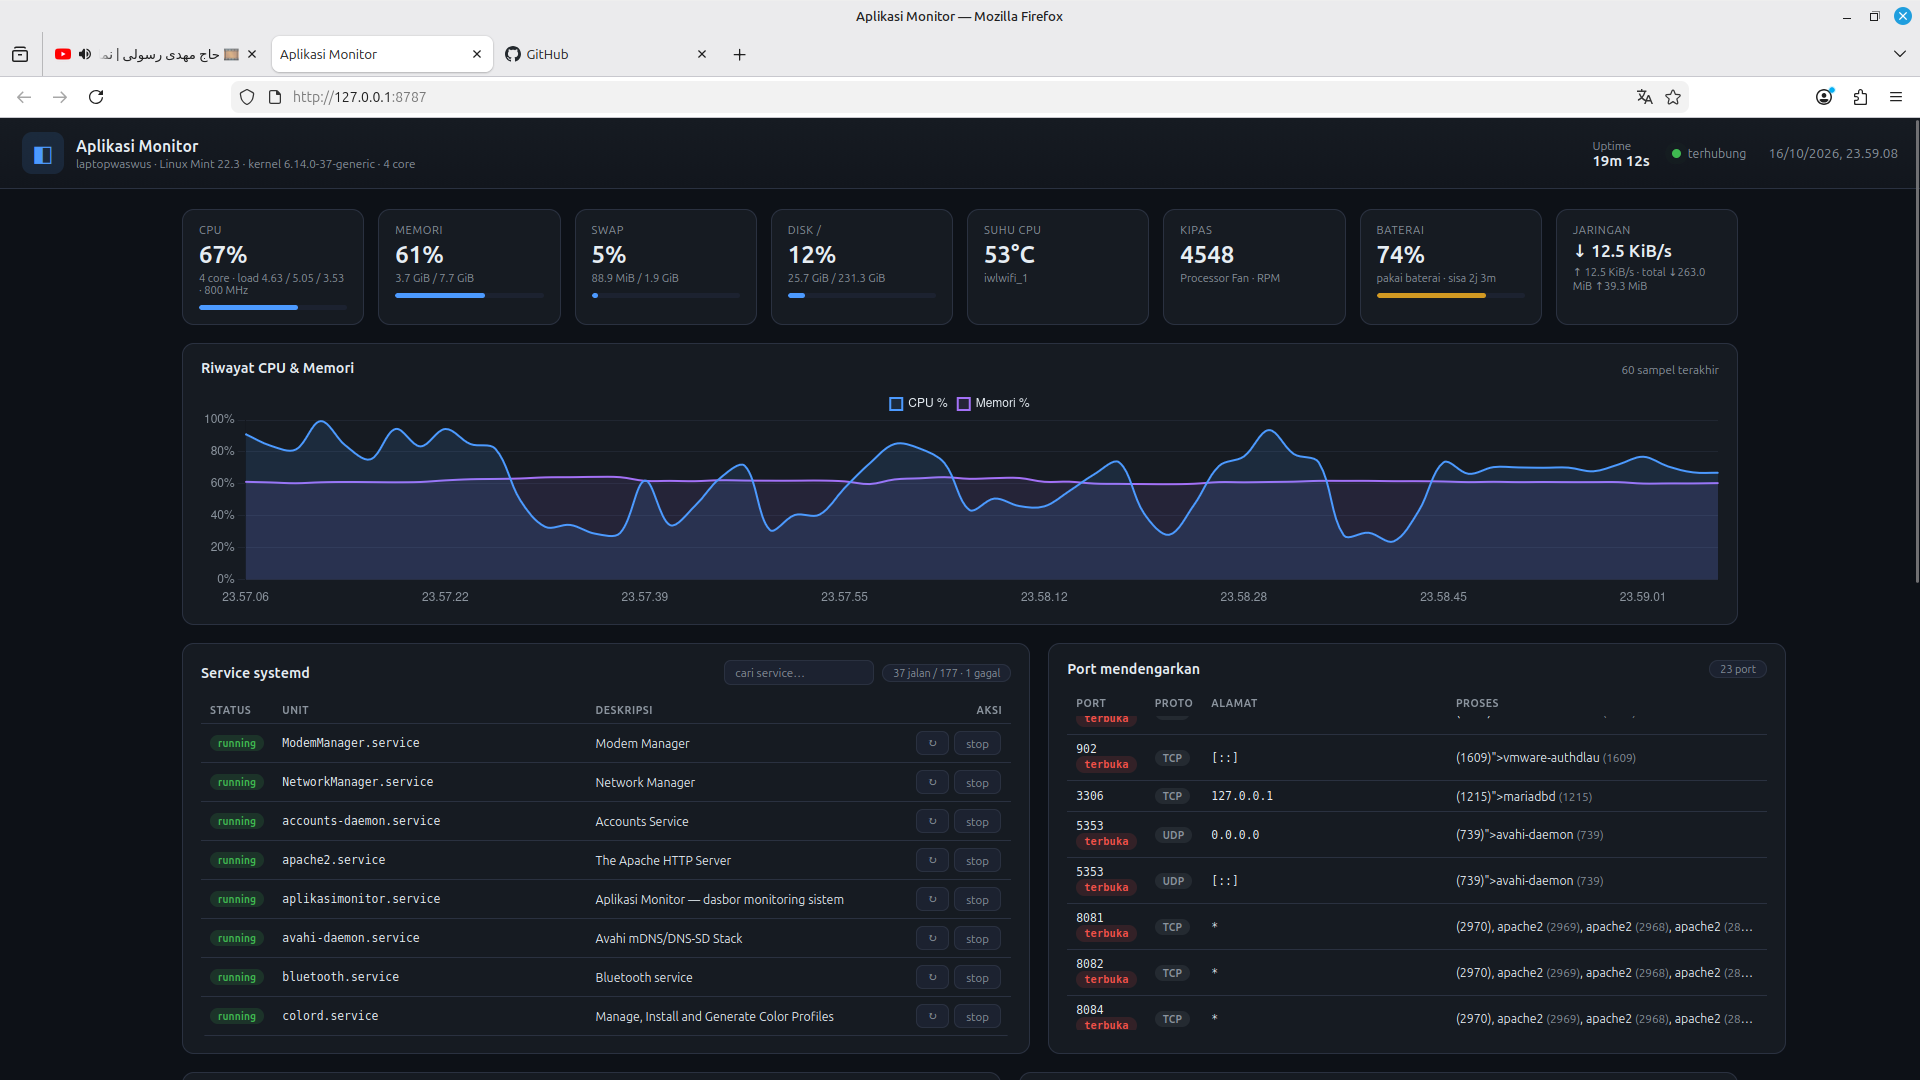
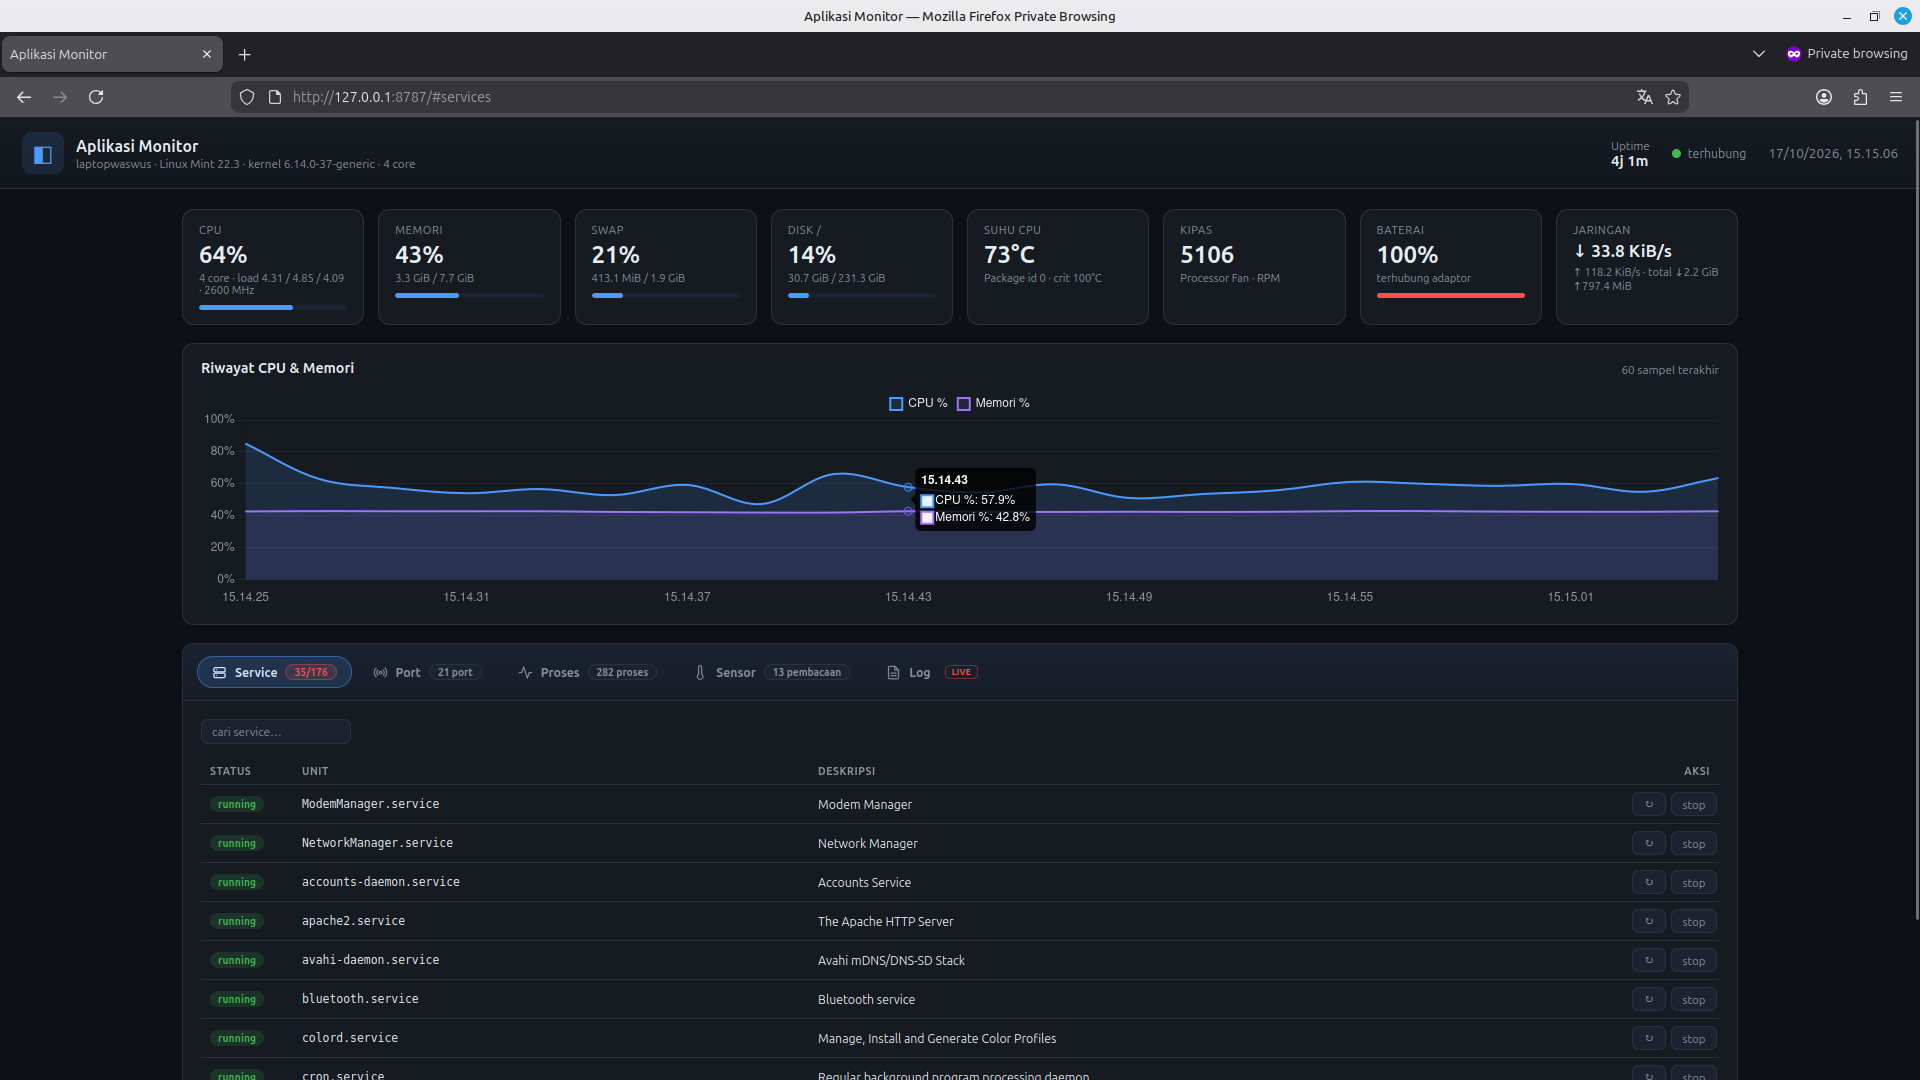
feat(ui): panel data bertab + lebar kolom tabel yang konsisten
- Gabung Service, Port, Proses, Sensor, dan Log menjadi satu card bertab
  (stat + grafik tetap di atas). Tab bergaya pil ala Bootstrap/Tailwind
  dengan ikon, dukungan keyboard, dan deep-link lewat hash URL.
- Perbaiki layout tabel agar tidak melebar/bergeser saat data refresh:
  table-layout fixed + lebar kolom eksplisit per tabel, dan minmax(0,1fr)
  pada grid agar konten panjang di-scroll di dalam card.
- Ringkas pill jumlah service jadi running/total (rincian di tooltip,
  merah bila ada yang gagal).
- Perbarui screenshot dasbor di README.

diff --git a/aplikasimonitor/static/style.css b/aplikasimonitor/static/style.css
@@ -74,9 +74,10 @@ main { padding: 20px 22px 60px; display: flex; flex-direction: column; gap: 18px
   border: 1px solid var(--border);
   border-radius: var(--radius);
   padding: 16px 18px;
+  min-width: 0;            /* cegah card melebar mengikuti konten tabel */
 }
 .card-head { display: flex; align-items: center; justify-content: space-between; gap: 12px; margin-bottom: 12px; flex-wrap: wrap; }
-.head-tools { display: flex; align-items: center; gap: 8px; flex-wrap: wrap; }
+.head-tools, .panel-tools { display: flex; align-items: center; gap: 8px; flex-wrap: wrap; }
 
 /* ---------- Stat cards ---------- */
 .stats { display: grid; grid-template-columns: repeat(auto-fit, minmax(150px, 1fr)); gap: 14px; }
@@ -93,14 +94,53 @@ main { padding: 20px 22px 60px; display: flex; flex-direction: column; gap: 18px
 /* ---------- Chart ---------- */
 .chart-card .chart-wrap { height: 220px; position: relative; }
 
-/* ---------- Grid 2 kolom ---------- */
-.grid-2 { display: grid; grid-template-columns: 1fr 1fr; gap: 18px; }
-@media (max-width: 1050px) { .grid-2 { grid-template-columns: 1fr; } }
+/* ---------- Tab panel ---------- */
+.tabs-card { padding: 0; overflow: hidden; }
+.tabbar {
+  display: flex; align-items: center; gap: 6px; flex-wrap: wrap;
+  padding: 12px 14px;
+  background: linear-gradient(180deg, #1a2130, #171d27);
+  border-bottom: 1px solid var(--border);
+  border-radius: var(--radius) var(--radius) 0 0;
+}
+.tab {
+  display: inline-flex; align-items: center; gap: 8px; white-space: nowrap;
+  appearance: none; font: inherit; font-size: .82rem; font-weight: 600;
+  color: var(--muted); background: transparent;
+  border: 1px solid transparent; border-radius: 999px;
+  padding: 7px 14px; cursor: pointer;
+  transition: color .15s ease, background .15s ease, border-color .15s ease;
+}
+.tab-ico {
+  width: 15px; height: 15px; flex: 0 0 auto; opacity: .9;
+  fill: none; stroke: currentColor; stroke-width: 2;
+  stroke-linecap: round; stroke-linejoin: round;
+}
+.tab:hover { color: var(--text); background: rgba(255,255,255,.05); }
+.tab:focus-visible { outline: 2px solid var(--accent); outline-offset: 2px; }
+.tab[aria-selected="true"] {
+  color: #d3e6ff;
+  background: rgba(76,154,255,.16);
+  border-color: rgba(76,154,255,.45);
+}
+.tab[aria-selected="true"] .tab-ico { opacity: 1; }
+.tab .pill { padding: 1px 8px; font-size: .68rem; }
+.tab[aria-selected="true"] .pill {
+  color: var(--accent); background: rgba(76,154,255,.14);
+  border-color: rgba(76,154,255,.4);
+}
+.tab .pill.bad {
+  color: var(--red); background: rgba(248,81,73,.14);
+  border-color: rgba(248,81,73,.4);
+}
+.tabpanel { padding: 18px; }
+.tabpanel[hidden] { display: none; }
+.panel-tools { margin-bottom: 14px; }
 
 /* ---------- Tabel ---------- */
-.table-scroll { max-height: 340px; overflow: auto; border-radius: 8px; }
-.table-scroll.tall { max-height: 420px; }
-table { width: 100%; border-collapse: collapse; font-size: .82rem; }
+.table-scroll { max-height: 420px; overflow: auto; border-radius: 8px; }
+.table-scroll.tall { max-height: 520px; }
+table { width: 100%; border-collapse: collapse; font-size: .82rem; table-layout: fixed; }
 th, td { text-align: left; padding: 7px 9px; border-bottom: 1px solid var(--border); vertical-align: middle; }
 th {
   position: sticky; top: 0; background: var(--bg-soft); z-index: 2;
@@ -109,8 +149,37 @@ th {
 tbody tr:hover { background: rgba(76,154,255,.06); }
 td.num, th.num { text-align: right; font-variant-numeric: tabular-nums; }
 .mono { font-family: "JetBrains Mono", ui-monospace, "SF Mono", Menlo, monospace; font-size: .76rem; }
-.truncate { max-width: 320px; overflow: hidden; text-overflow: ellipsis; white-space: nowrap; }
+.truncate { overflow: hidden; text-overflow: ellipsis; white-space: nowrap; }
 .empty { padding: 22px; text-align: center; color: var(--muted); font-size: .85rem; }
+
+/* Lebar kolom tetap (fixed) supaya tabel tidak bergeser saat data refresh.
+   Kolom tanpa lebar eksplisit mengisi sisa ruang secara merata. */
+.tbl { min-width: 480px; }
+
+/* Service: Status | Unit | Deskripsi | Aksi */
+.tbl-services th:nth-child(1), .tbl-services td:nth-child(1) { width: 92px; }
+.tbl-services th:nth-child(2), .tbl-services td:nth-child(2) { width: 34%; }
+.tbl-services th:nth-child(4), .tbl-services td:nth-child(4) { width: 96px; }
+
+/* Port: Port | Proto | Alamat | Proses */
+.tbl-ports th:nth-child(1), .tbl-ports td:nth-child(1) { width: 116px; }
+.tbl-ports th:nth-child(2), .tbl-ports td:nth-child(2) { width: 78px; }
+.tbl-ports th:nth-child(3), .tbl-ports td:nth-child(3) { width: 34%; }
+
+/* Proses: PID | Nama | User | CPU% | RAM% | RSS | Perintah */
+.tbl-processes { min-width: 640px; }
+.tbl-processes th:nth-child(1), .tbl-processes td:nth-child(1) { width: 68px; }
+.tbl-processes th:nth-child(2), .tbl-processes td:nth-child(2) { width: 16%; }
+.tbl-processes th:nth-child(3), .tbl-processes td:nth-child(3) { width: 12%; }
+.tbl-processes th:nth-child(4), .tbl-processes td:nth-child(4) { width: 62px; }
+.tbl-processes th:nth-child(5), .tbl-processes td:nth-child(5) { width: 62px; }
+.tbl-processes th:nth-child(6), .tbl-processes td:nth-child(6) { width: 80px; }
+
+/* Sensor: Sensor | Label | Nilai | Maks | Kritis */
+.tbl-sensors th:nth-child(1), .tbl-sensors td:nth-child(1) { width: 26%; }
+.tbl-sensors th:nth-child(3), .tbl-sensors td:nth-child(3) { width: 90px; }
+.tbl-sensors th:nth-child(4), .tbl-sensors td:nth-child(4) { width: 80px; }
+.tbl-sensors th:nth-child(5), .tbl-sensors td:nth-child(5) { width: 80px; }
 
 /* ---------- Badges & chip ---------- */
 .badge { display: inline-block; padding: 2px 8px; border-radius: 999px; font-size: .68rem; font-weight: 600; letter-spacing: .02em; }
@@ -145,7 +214,7 @@ input[type="search"] { width: 150px; }
 /* ---------- Log ---------- */
 .live-badge { font-size: .6rem; color: var(--red); border: 1px solid rgba(248,81,73,.4); border-radius: 5px; padding: 1px 6px; vertical-align: middle; margin-left: 6px; }
 .logs {
-  height: 320px; overflow: auto; background: #0a0d12; border: 1px solid var(--border);
+  height: 420px; overflow: auto; background: #0a0d12; border: 1px solid var(--border);
   border-radius: 8px; padding: 8px 10px; font-family: "JetBrains Mono", ui-monospace, Menlo, monospace;
   font-size: .74rem; line-height: 1.5;
 }

diff --git a/aplikasimonitor/static/index.html b/aplikasimonitor/static/index.html
@@ -90,64 +90,69 @@
     <div class="chart-wrap"><canvas id="history-chart"></canvas></div>
   </section>
 
-  <!-- Service & Port -->
-  <section class="grid-2">
-    <article class="card">
-      <div class="card-head">
-        <h2>Service systemd</h2>
-        <div class="head-tools">
-          <input type="search" id="service-search" placeholder="cari service…">
-          <span class="pill" id="service-count">—</span>
-        </div>
+  <!-- Panel data bertab -->
+  <section class="card tabs-card">
+    <div class="tabbar" role="tablist" aria-label="Panel data sistem">
+      <button class="tab" role="tab" id="tab-services" aria-controls="panel-services"
+              aria-selected="true" data-tab="services">
+        <svg class="tab-ico" viewBox="0 0 24 24" aria-hidden="true"><rect x="3" y="4" width="18" height="7" rx="2"/><rect x="3" y="13" width="18" height="7" rx="2"/><line x1="7" y1="7.5" x2="7.01" y2="7.5"/><line x1="7" y1="16.5" x2="7.01" y2="16.5"/></svg>
+        <span>Service</span> <span class="pill" id="service-count">—</span>
+      </button>
+      <button class="tab" role="tab" id="tab-ports" aria-controls="panel-ports"
+              aria-selected="false" data-tab="ports" tabindex="-1">
+        <svg class="tab-ico" viewBox="0 0 24 24" aria-hidden="true"><circle cx="12" cy="12" r="2"/><path d="M16.24 7.76a6 6 0 0 1 0 8.49m-8.48-.01a6 6 0 0 1 0-8.49"/><path d="M19.07 4.93a10 10 0 0 1 0 14.14m-14.14 0a10 10 0 0 1 0-14.14"/></svg>
+        <span>Port</span> <span class="pill" id="ports-count">—</span>
+      </button>
+      <button class="tab" role="tab" id="tab-processes" aria-controls="panel-processes"
+              aria-selected="false" data-tab="processes" tabindex="-1">
+        <svg class="tab-ico" viewBox="0 0 24 24" aria-hidden="true"><polyline points="22 12 18 12 15 21 9 3 6 12 2 12"/></svg>
+        <span>Proses</span> <span class="pill" id="proc-count">—</span>
+      </button>
+      <button class="tab" role="tab" id="tab-sensors" aria-controls="panel-sensors"
+              aria-selected="false" data-tab="sensors" tabindex="-1">
+        <svg class="tab-ico" viewBox="0 0 24 24" aria-hidden="true"><path d="M14 14.76V3.5a2.5 2.5 0 0 0-5 0v11.26a4.5 4.5 0 1 0 5 0z"/></svg>
+        <span>Sensor</span> <span class="pill" id="sensor-count">—</span>
+      </button>
+      <button class="tab" role="tab" id="tab-logs" aria-controls="panel-logs"
+              aria-selected="false" data-tab="logs" tabindex="-1">
+        <svg class="tab-ico" viewBox="0 0 24 24" aria-hidden="true"><path d="M14 2H6a2 2 0 0 0-2 2v16a2 2 0 0 0 2 2h12a2 2 0 0 0 2-2V8z"/><polyline points="14 2 14 8 20 8"/><line x1="16" y1="13" x2="8" y2="13"/><line x1="16" y1="17" x2="8" y2="17"/></svg>
+        <span>Log</span> <span class="live-badge">LIVE</span>
+      </button>
+    </div>
+
+    <div class="tabpanel" id="panel-services" role="tabpanel" aria-labelledby="tab-services" data-tab="services">
+      <div class="panel-tools">
+        <input type="search" id="service-search" placeholder="cari service…">
       </div>
       <div class="table-scroll" id="services-body">
         <div class="empty">memuat…</div>
       </div>
-    </article>
+    </div>
 
-    <article class="card">
-      <div class="card-head">
-        <h2>Port mendengarkan</h2>
-        <span class="pill" id="ports-count">—</span>
-      </div>
+    <div class="tabpanel" id="panel-ports" role="tabpanel" aria-labelledby="tab-ports" data-tab="ports" hidden>
       <div class="table-scroll" id="ports-body">
         <div class="empty">memuat…</div>
       </div>
-    </article>
-  </section>
+    </div>
 
-  <!-- Proses & Sensor -->
-  <section class="grid-2">
-    <article class="card">
-      <div class="card-head">
-        <h2>Proses teratas</h2>
-        <div class="head-tools">
-          <button class="chip" data-sort="cpu" aria-pressed="true">CPU</button>
-          <button class="chip" data-sort="mem" aria-pressed="false">RAM</button>
-          <span class="pill" id="proc-count">—</span>
-        </div>
+    <div class="tabpanel" id="panel-processes" role="tabpanel" aria-labelledby="tab-processes" data-tab="processes" hidden>
+      <div class="panel-tools">
+        <button class="chip" data-sort="cpu" aria-pressed="true">CPU</button>
+        <button class="chip" data-sort="mem" aria-pressed="false">RAM</button>
       </div>
       <div class="table-scroll tall" id="processes-body">
         <div class="empty">memuat…</div>
       </div>
-    </article>
+    </div>
 
-    <article class="card">
-      <div class="card-head">
-        <h2>Sensor (lm-sensors)</h2>
-        <span class="pill" id="sensor-count">—</span>
-      </div>
+    <div class="tabpanel" id="panel-sensors" role="tabpanel" aria-labelledby="tab-sensors" data-tab="sensors" hidden>
       <div class="table-scroll tall" id="sensors-body">
         <div class="empty">memuat…</div>
       </div>
-    </article>
-  </section>
+    </div>
 
-  <!-- Log -->
-  <section class="card">
-    <div class="card-head">
-      <h2>Log journald <span class="live-badge">LIVE</span></h2>
-      <div class="head-tools">
+    <div class="tabpanel" id="panel-logs" role="tabpanel" aria-labelledby="tab-logs" data-tab="logs" hidden>
+      <div class="panel-tools">
         <select id="log-unit"><option value="">semua unit</option></select>
         <select id="log-level">
           <option value="">semua level</option>
@@ -160,8 +165,8 @@
         <label class="switch"><input type="checkbox" id="log-autoscroll" checked> auto-scroll</label>
         <button class="chip" id="log-clear">bersihkan</button>
       </div>
+      <div class="logs" id="log-body"><div class="empty">menunggu log…</div></div>
     </div>
-    <div class="logs" id="log-body"><div class="empty">menunggu log…</div></div>
   </section>
 
 </main>

diff --git a/aplikasimonitor/static/app.js b/aplikasimonitor/static/app.js
@@ -253,8 +253,11 @@ function serviceBadge(svc) {
 
 function renderServices(data) {
   state.services = data.services || [];
-  $("service-count").textContent = `${data.running} jalan / ${data.total}`;
-  if (data.failed) $("service-count").textContent += ` · ${data.failed} gagal`;
+  const pill = $("service-count");
+  pill.textContent = `${data.running}/${data.total}`;
+  pill.title = `${data.running} jalan, ${data.total} total` +
+    (data.failed ? `, ${data.failed} gagal` : "");
+  pill.classList.toggle("bad", Boolean(data.failed));
   filterServices();
   populateLogUnits();
 }
@@ -268,7 +271,7 @@ function filterServices() {
   const body = $("services-body");
   if (!rows.length) { body.innerHTML = `<div class="empty">tidak ada service cocok</div>`; return; }
 
-  body.innerHTML = `<table><thead><tr><th>Status</th><th>Unit</th><th>Deskripsi</th><th class="num">Aksi</th></tr></thead><tbody>` +
+  body.innerHTML = `<table class="tbl tbl-services"><thead><tr><th>Status</th><th>Unit</th><th>Deskripsi</th><th class="num">Aksi</th></tr></thead><tbody>` +
     rows.map((s) => {
       const isActive = s.active === "active";
       const toggle = isActive
@@ -330,7 +333,7 @@ async function loadPorts() {
     const ports = data.ports || [];
     $("ports-count").textContent = `${ports.length} port`;
     if (!ports.length) { body.innerHTML = `<div class="empty">tidak ada port mendengarkan</div>`; return; }
-    body.innerHTML = `<table><thead><tr><th>Port</th><th>Proto</th><th>Alamat</th><th>Proses</th></tr></thead><tbody>` +
+    body.innerHTML = `<table class="tbl tbl-ports"><thead><tr><th>Port</th><th>Proto</th><th>Alamat</th><th>Proses</th></tr></thead><tbody>` +
       ports.map((p) => {
         const procs = (p.processes || []).map((x) => `${esc(x.name)} <span class="muted">(${x.pid})</span>`).join(", ") || "—";
         const exposed = p.exposed ? ` <span class="badge exposed">terbuka</span>` : "";
@@ -354,7 +357,7 @@ async function loadProcesses() {
   try {
     const data = await getJSON(`/api/processes?sort=${state.processSort}&limit=60`);
     $("proc-count").textContent = `${data.total} proses`;
-    body.innerHTML = `<table><thead><tr>
+    body.innerHTML = `<table class="tbl tbl-processes"><thead><tr>
         <th class="num">PID</th><th>Nama</th><th>User</th>
         <th class="num">CPU%</th><th class="num">RAM%</th><th class="num">RSS</th><th>Perintah</th>
       </tr></thead><tbody>` +
@@ -382,7 +385,7 @@ async function loadSensors() {
     if (!data.available) { body.innerHTML = `<div class="empty">${esc(data.error || "sensor tidak tersedia")}</div>`; return; }
     const readings = data.readings || [];
     $("sensor-count").textContent = `${readings.length} pembacaan`;
-    body.innerHTML = `<table><thead><tr><th>Sensor</th><th>Label</th><th class="num">Nilai</th><th class="num">Maks</th><th class="num">Kritis</th></tr></thead><tbody>` +
+    body.innerHTML = `<table class="tbl tbl-sensors"><thead><tr><th>Sensor</th><th>Label</th><th class="num">Nilai</th><th class="num">Maks</th><th class="num">Kritis</th></tr></thead><tbody>` +
       readings.map((s) => {
         const hot = s.kind === "temp" && s.crit && s.value >= s.crit * 0.9;
         const value = `${s.value.toFixed(1)}${s.unit ? " " + s.unit : ""}`;
@@ -450,6 +453,55 @@ function startLogs() {
 }
 
 // ---------------------------------------------------------------------------
+// Tab panel
+// ---------------------------------------------------------------------------
+const TAB_NAMES = ["services", "ports", "processes", "sensors", "logs"];
+
+function activeTabName() {
+  const sel = document.querySelector('.tab[aria-selected="true"]');
+  return sel ? sel.dataset.tab : "services";
+}
+
+function activateTab(name) {
+  if (!TAB_NAMES.includes(name)) name = "services";
+  for (const t of TAB_NAMES) {
+    const on = t === name;
+    const tab = $("tab-" + t);
+    const panel = $("panel-" + t);
+    tab.setAttribute("aria-selected", String(on));
+    tab.tabIndex = on ? 0 : -1;
+    panel.hidden = !on;
+  }
+  // Log yang tersembunyi tidak bisa auto-scroll; rapikan saat tab dibuka.
+  if (name === "logs" && $("log-autoscroll").checked) {
+    const body = $("log-body");
+    body.scrollTop = body.scrollHeight;
+  }
+  if (location.hash !== "#" + name) history.replaceState(null, "", "#" + name);
+}
+
+function bindTabs() {
+  const bar = document.querySelector(".tabbar");
+  bar.addEventListener("click", (e) => {
+    const tab = e.target.closest(".tab");
+    if (tab) activateTab(tab.dataset.tab);
+  });
+  bar.addEventListener("keydown", (e) => {
+    if (!["ArrowLeft", "ArrowRight", "Home", "End"].includes(e.key)) return;
+    e.preventDefault();
+    const cur = TAB_NAMES.indexOf(activeTabName());
+    let next = cur;
+    if (e.key === "ArrowLeft") next = (cur - 1 + TAB_NAMES.length) % TAB_NAMES.length;
+    else if (e.key === "ArrowRight") next = (cur + 1) % TAB_NAMES.length;
+    else if (e.key === "Home") next = 0;
+    else if (e.key === "End") next = TAB_NAMES.length - 1;
+    activateTab(TAB_NAMES[next]);
+    $("tab-" + TAB_NAMES[next]).focus();
+  });
+  window.addEventListener("hashchange", () => activateTab(location.hash.slice(1)));
+}
+
+// ---------------------------------------------------------------------------
 // Wiring
 // ---------------------------------------------------------------------------
 function bindEvents() {
@@ -489,6 +541,8 @@ function tickClock() {
 function init() {
   initChart();
   bindEvents();
+  bindTabs();
+  activateTab(location.hash.slice(1) || "services");
   loadHost();
   loadServices();
   loadPorts();
